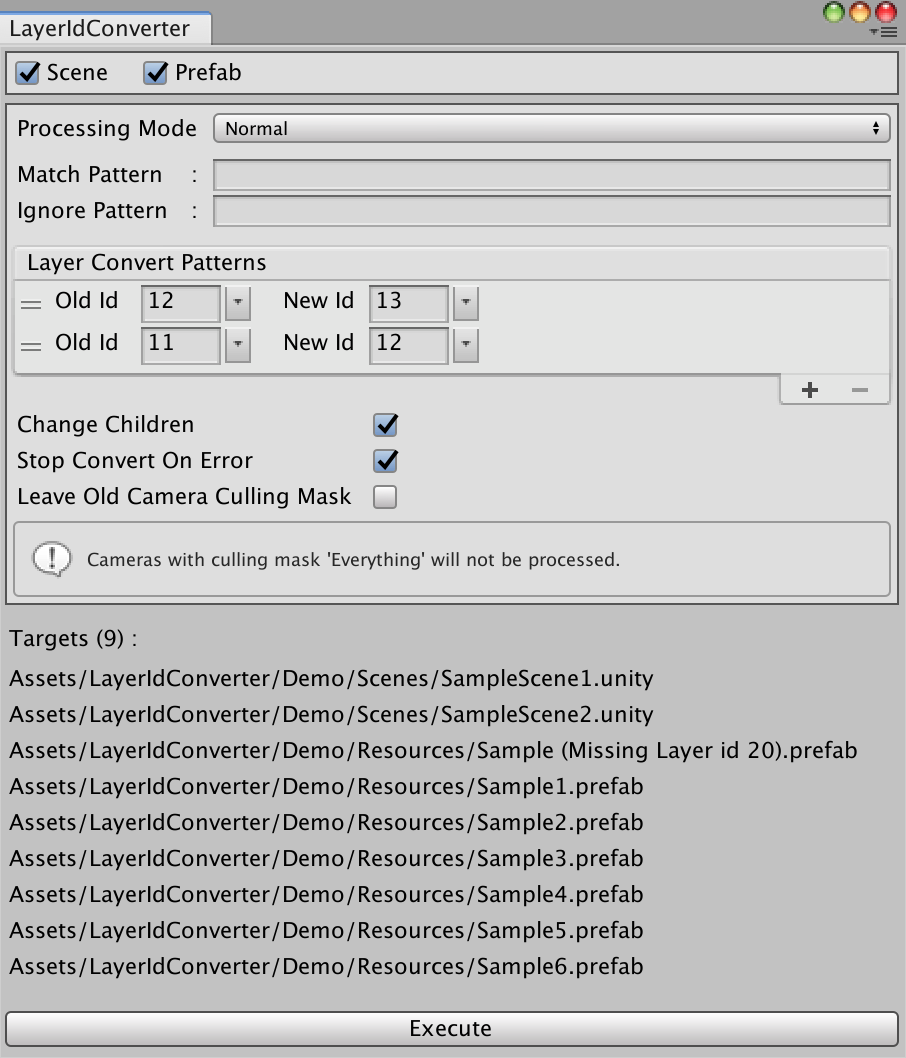
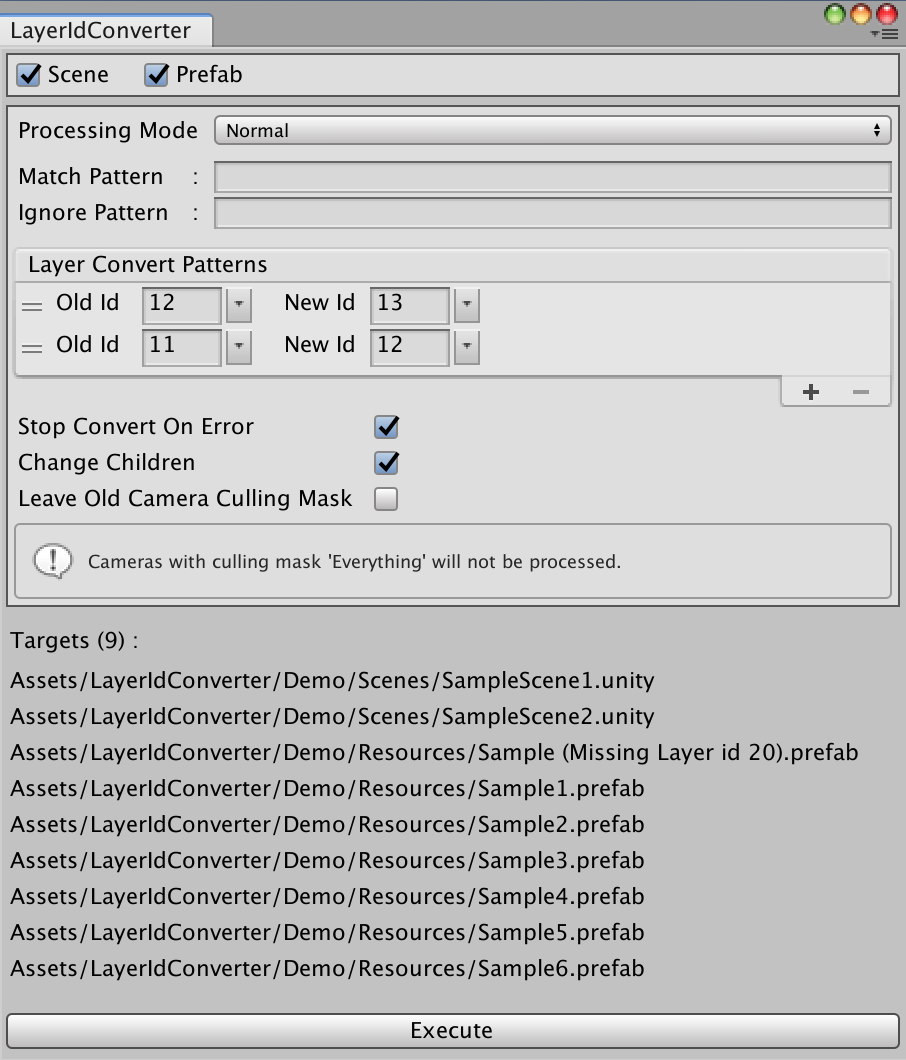
不具合修正

Changed region(s): [[0.0, 0.0, 1.0, 0.9357], [0.4636, 0.9669, 0.5563, 0.9981], [0.989, 0.9669, 1.0, 0.9981]]

diff --git a/Assets/LayerIdConverter/Editor/LayerIdConvertWindow.cs b/Assets/LayerIdConverter/Editor/LayerIdConvertWindow.cs
@@ -2,6 +2,7 @@
 using UnityEditor;
 using UnityEditorInternal;
 using System;
+using System.Collections;
 using System.Collections.Generic;
 using System.Text.RegularExpressions;
 using System.Linq;
@@ -26,8 +27,6 @@ namespace ConvertLayerId
 
 		private Dictionary<int, string> layerDefines;
 		private int targetFlags;
-		private List<string> allPathList;
-		private List<string> targetPathList;
 		private string matchPattern;
 		private string matchPatternError;
 		private string ignorePattern;
@@ -154,6 +153,7 @@ namespace ConvertLayerId
 			EditorGUILayout.EndVertical();
 
 			bool isChangeTargets = beforeTargetFlags != this.targetFlags;
+
 			if (this.targetFlags <= 0) {
 				this.targetFlags = beforeTargetFlags;
 				this.Repaint();
@@ -196,17 +196,17 @@ namespace ConvertLayerId
 			GUILayout.Space(7f);
 			this.drawConvertPatterns.DoLayoutList();
 
+			EditorGUILayout.BeginHorizontal();
+			EditorGUILayout.LabelField("Stop Convert On Error", GUILayout.Width(175f));
+			this.convertSettings.isStopConvertOnError = EditorGUILayout.Toggle(this.convertSettings.isStopConvertOnError);
+			EditorGUILayout.EndHorizontal();
+
 			GUI.enabled = this.convertSettings.IsEnabledLayerId;
 			EditorGUILayout.BeginHorizontal();
 			EditorGUILayout.LabelField("Change Children", GUILayout.Width(175f));
 			this.convertSettings.isChangeChildren = EditorGUILayout.Toggle(this.convertSettings.isChangeChildren);
 			EditorGUILayout.EndHorizontal();
 			GUI.enabled = true;
-
-			EditorGUILayout.BeginHorizontal();
-			EditorGUILayout.LabelField("Stop Convert On Error", GUILayout.Width(175f));
-			this.convertSettings.isStopConvertOnError = EditorGUILayout.Toggle(this.convertSettings.isStopConvertOnError);
-			EditorGUILayout.EndHorizontal();
 
 			GUI.enabled = this.convertSettings.IsEnabledCameraCullingMask;
 			EditorGUILayout.BeginHorizontal();
@@ -223,14 +223,16 @@ namespace ConvertLayerId
 
 			EditorGUILayout.BeginVertical();
 			GUILayout.Space(5f);
-			GUILayout.Label(string.Format("Targets ({0}) :", this.targetPathList.Count));
+			GUILayout.Label(string.Format("Targets ({0}) :", this.converters.Sum(x => x.TargetPaths.Count)));
 			EditorGUILayout.EndVertical();
 
 			this.scrollPosition = EditorGUILayout.BeginScrollView(this.scrollPosition);
 			EditorGUILayout.BeginVertical();
 
-			foreach (string target in this.targetPathList) {
-				EditorGUILayout.SelectableLabel(target, GUILayout.Height(EditorGUIUtility.singleLineHeight));
+			foreach (LayerIdConverterBase converter in this.converters) {
+				foreach (string target in converter.TargetPaths) {
+					EditorGUILayout.SelectableLabel(target, GUILayout.Height(EditorGUIUtility.singleLineHeight));
+				}
 			}
 
 			EditorGUILayout.EndVertical();
@@ -249,47 +251,39 @@ namespace ConvertLayerId
 		{
 			if (isChangeTargets) {
 				this.converters = new List<LayerIdConverterBase>();
-				this.allPathList = new List<string>();
-
-				string[] searchInFolders = { "Assets" };
-
 				if ((this.targetFlags & TARGET_SCENE) >= 1) {
-					LayerIdConverterScene sceneConverter = new LayerIdConverterScene();
-					this.converters.Add(sceneConverter);
-					string filter = string.Format("t:{0}", sceneConverter.AssetType);
-					this.allPathList.AddRange(AssetDatabase.FindAssets(filter, searchInFolders).Select(AssetDatabase.GUIDToAssetPath));
+					this.converters.Add(new LayerIdConverterScene());
 				}
 				if ((this.targetFlags & TARGET_PREFAB) >= 1) {
-					LayerIdConverterPrefab prefabConverter = new LayerIdConverterPrefab();
-					this.converters.Add(prefabConverter);
-					string filter = string.Format("t:{0}", prefabConverter.AssetType);
-					this.allPathList.AddRange(AssetDatabase.FindAssets(filter, searchInFolders).Select(AssetDatabase.GUIDToAssetPath));
+					this.converters.Add(new LayerIdConverterPrefab());
 				}
 			}
-
-			this.targetPathList = new List<string>(this.allPathList);
 
 			this.matchPatternError = string.Empty;
 			if (!string.IsNullOrEmpty(this.matchPattern)) {
 				try {
 					Regex regex = new Regex(this.matchPattern);
-					this.targetPathList = this.targetPathList.Where(x => regex.IsMatch(x, 0)).ToList();
 				}
 				catch (Exception e) {
 					this.matchPatternError = e.Message;
-					this.targetPathList = new List<string>();
 				}
 			}
-
 			this.ignorePatternError = string.Empty;
 			if (!string.IsNullOrEmpty(this.ignorePattern)) {
 				try {
 					Regex regex = new Regex(this.ignorePattern);
-					this.targetPathList = this.targetPathList.Where(x => !regex.IsMatch(x, 0)).ToList();
 				}
 				catch (Exception e) {
 					this.ignorePatternError = e.Message;
 				}
+			}
+
+			bool isError = false;
+			isError |= !string.IsNullOrEmpty(this.matchPatternError);
+			isError |= !string.IsNullOrEmpty(this.ignorePatternError);
+
+			foreach (LayerIdConverterBase converter in this.converters) {
+				converter.Filter(this.matchPattern, this.ignorePattern, isError);
 			}
 		}
 
@@ -322,15 +316,29 @@ namespace ConvertLayerId
 
 			bool isExecute = EditorUtility.DisplayDialog(
 				"実行確認",
-				string.Format("{0}件を対象に処理を開始します。よろしいですか？", this.targetPathList.Count),
+				string.Format("{0}件を対象に処理を開始します。よろしいですか？", this.converters.Sum(x => x.TargetPaths.Count)),
 				"OK",
 				"Cancel"
 			);
+
 			if (isExecute) {
-				foreach (LayerIdConverterBase converter in this.converters) {
-					converter.Execute(new List<string>(this.targetPathList), this.convertSettings.Clone());
+				EditorCoroutine.Start(this.RunConvert());
+			}
+		}
+
+
+		private IEnumerator RunConvert()
+		{
+			foreach (LayerIdConverterBase converter in this.converters) {
+				converter.Execute(this.convertSettings.Clone());
+				while (!converter.IsCompleted) {
+					if (converter.IsInterruption) {
+						yield break;
+					}
+					yield return null;
 				}
 			}
 		}
+
 	}
 }

diff --git a/Assets/LayerIdConverter/Editor/LayerIdConverterScene.cs b/Assets/LayerIdConverter/Editor/LayerIdConverterScene.cs
@@ -10,17 +10,19 @@ namespace ConvertLayerId
 {
 	public class LayerIdConverterScene : LayerIdConverterBase
 	{
-		public override string AssetType => "Scene";
+		public LayerIdConverterScene() : base("Scene") {}
 
 		private string currentScenePath;
 
-		public override void Execute(List<string> pathList, ConvertData convertSettings)
+		public override void Execute(ConvertData convertSettings)
 		{
+			base.Execute(convertSettings);
+
 			EditorSceneManager.SaveOpenScenes();
 			this.currentScenePath = SceneManager.GetActiveScene().path;
 
 			List<GeneralEditorIndicator.Task> tasks = new List<GeneralEditorIndicator.Task>();
-			foreach (string path in pathList) {
+			foreach (string path in this.TargetPaths) {
 				string assetPath = path;
 				tasks.Add(new GeneralEditorIndicator.Task(
 					() => {
@@ -29,6 +31,7 @@ namespace ConvertLayerId
 						}
 						catch (Exception e) {
 							if (convertSettings.isStopConvertOnError) {
+								this.IsInterruption = true;
 								EditorSceneManager.OpenScene(this.currentScenePath);
 								throw;
 							}
@@ -40,9 +43,12 @@ namespace ConvertLayerId
 			}
 		
 			GeneralEditorIndicator.Show(
-				"SceneLayerIdConverter",
+				"LayerIdConverter - Scene",
 				tasks,
-				() => { EditorSceneManager.OpenScene(this.currentScenePath); }
+				() => {
+					EditorSceneManager.OpenScene(this.currentScenePath);
+					this.IsCompleted = true;
+				}
 			);
 		}
 
@@ -82,7 +88,7 @@ namespace ConvertLayerId
 
 			if (results.Count > 0) {
 				Debug.Log(string.Format(
-					"[SceneLayerIdConverter] {0}, Change Children = {1}\n{2}",
+					"[LayerIdConverter - Scene] {0}, Change Children = {1}\n{2}",
 					assetPath,
 					convertSettings.isChangeChildren,
 					string.Join("\n", results)

diff --git a/Assets/LayerIdConverter/Editor/LayerIdConverterBase.cs b/Assets/LayerIdConverter/Editor/LayerIdConverterBase.cs
@@ -3,13 +3,49 @@ using UnityEditor;
 using System;
 using System.Collections.Generic;
 using System.Linq;
+using System.Text.RegularExpressions;
 
 namespace ConvertLayerId
 {
 	public abstract class LayerIdConverterBase
 	{
-		public abstract string AssetType { get; }
-		public abstract void Execute(List<string> pathList, ConvertData convertSettings);
+		protected List<string> allPathList = new List<string>();
+		protected List<string> targetPathList = new List<string>();
+
+		public bool IsCompleted { get; protected set; }
+		public bool IsInterruption { get; protected set; }
+		public List<string> TargetPaths { get { return this.targetPathList; } }
+
+		protected LayerIdConverterBase(string assetType)
+		{
+			string filter = string.Format("t:{0}", assetType);
+			string[] searchInFolders = { "Assets" };
+
+			this.allPathList = AssetDatabase.FindAssets(filter, searchInFolders)
+				.Select(AssetDatabase.GUIDToAssetPath)
+				.ToList();
+		}
+
+		public virtual void Execute(ConvertData convertSettings)
+		{
+			this.IsCompleted = this.IsInterruption = false;
+		}
+
+		public void Filter(string matchPattern, string ignorePattern, bool isError)
+		{
+			if (isError) {
+				this.targetPathList = new List<string>();
+				return;
+			}
+			this.targetPathList = new List<string>(this.allPathList);
+
+			if (!string.IsNullOrEmpty(matchPattern)) {
+				this.targetPathList = this.targetPathList.Where(x => Regex.IsMatch(x, matchPattern)).ToList();
+			}
+			if (!string.IsNullOrEmpty(ignorePattern)) {
+				this.targetPathList = this.targetPathList.Where(x => !Regex.IsMatch(x, ignorePattern)).ToList();
+			}
+		}
 
 		protected List<string> ChangeLayer(string layerName, GameObject gameObject, ConvertData convertSettings)
 		{

diff --git a/Assets/LayerIdConverter/Editor/LayerIdConverterPrefab.cs b/Assets/LayerIdConverter/Editor/LayerIdConverterPrefab.cs
@@ -7,12 +7,14 @@ namespace ConvertLayerId
 {
 	public class LayerIdConverterPrefab : LayerIdConverterBase
 	{
-		public override string AssetType => "Prefab";
+		public LayerIdConverterPrefab() : base("Prefab") {}
 
-		public override void Execute(List<string> pathList, ConvertData convertSettings)
+		public override void Execute(ConvertData convertSettings)
 		{
+			base.Execute(convertSettings);
+
 			List<GeneralEditorIndicator.Task> tasks = new List<GeneralEditorIndicator.Task>();
-			foreach (string path in pathList) {
+			foreach (string path in this.TargetPaths) {
 				string assetPath = path;
 				tasks.Add(new GeneralEditorIndicator.Task(
 					() => {
@@ -21,6 +23,7 @@ namespace ConvertLayerId
 						}
 						catch (Exception e) {
 							if (convertSettings.isStopConvertOnError) {
+								this.IsInterruption = true;
 								throw;
 							}
 							Debug.LogException(e);
@@ -30,7 +33,7 @@ namespace ConvertLayerId
 				));
 			}
 
-			GeneralEditorIndicator.Show("PrefabLayerIdConverter", tasks, () => {});
+			GeneralEditorIndicator.Show("LayerIdConverter - Prefab", tasks, () => { this.IsCompleted = true; });
 		}
 
 
@@ -62,7 +65,7 @@ namespace ConvertLayerId
 
 			if (results.Count > 0) {
 				Debug.Log(string.Format(
-					"[PrefabLayerIdConverter] {0}, Change Children = {1}\n{2}",
+					"[LayerIdConverter - Prefab] {0}, Change Children = {1}\n{2}",
 					assetPath,
 					convertSettings.isChangeChildren,
 					string.Join("\n", results)

diff --git a/Assets/LayerIdConverter/Editor/LayerIdConvertData.cs b/Assets/LayerIdConverter/Editor/LayerIdConvertData.cs
@@ -1,4 +1,4 @@
-using System;
+using System;
 using System.Collections.Generic;
 using System.Linq;
 
@@ -39,8 +39,8 @@ namespace ConvertLayerId
 
 		public ProcessingMode processingMode = ProcessingMode.Normal;
 		public List<Pattern> patterns = new List<Pattern>();
-		public bool isChangeChildren = true;
 		public bool isStopConvertOnError = true;
+		public bool isChangeChildren = true;
 		public bool isLeaveOldCameraCullingMask;
 
 		public bool IsEnabledLayerId {
@@ -66,8 +66,8 @@ namespace ConvertLayerId
 			return new ConvertData {
 				processingMode = this.processingMode,
 				patterns = this.patterns.Select(x => x.Clone()).ToList(),
-				isChangeChildren = this.isChangeChildren,
 				isStopConvertOnError = this.isStopConvertOnError,
+				isChangeChildren = this.isChangeChildren,
 				isLeaveOldCameraCullingMask = this.isLeaveOldCameraCullingMask
 			};
 		}
